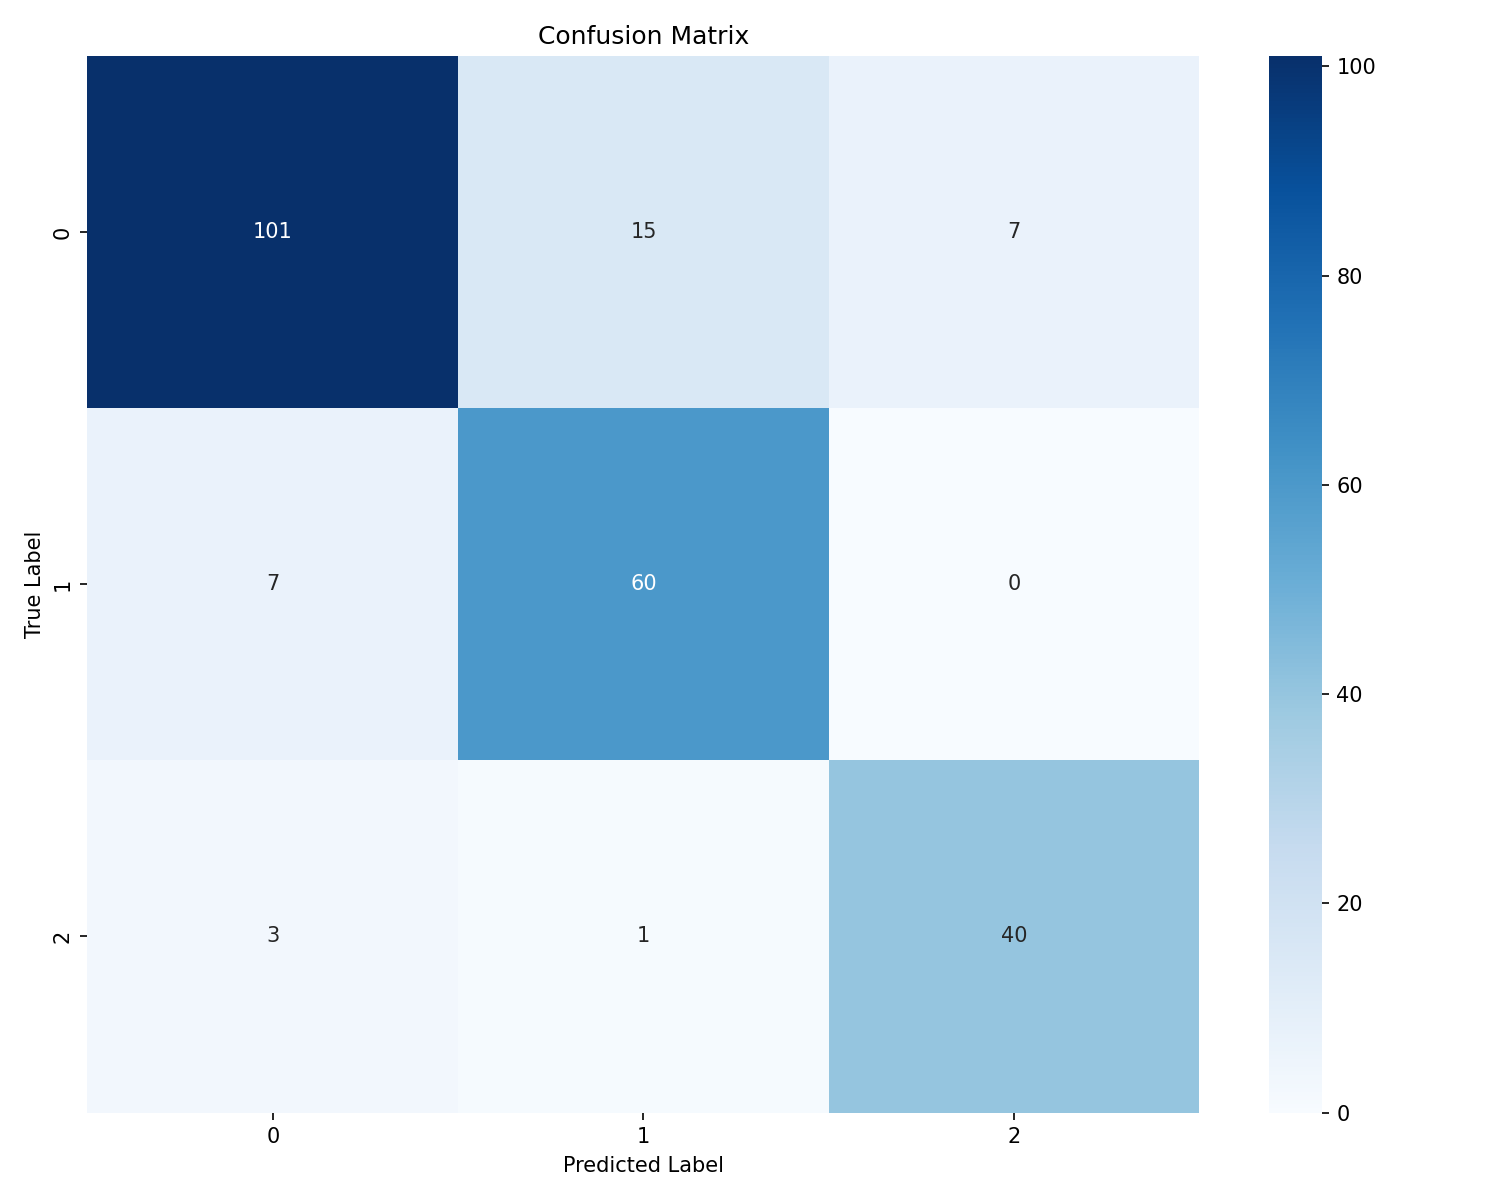
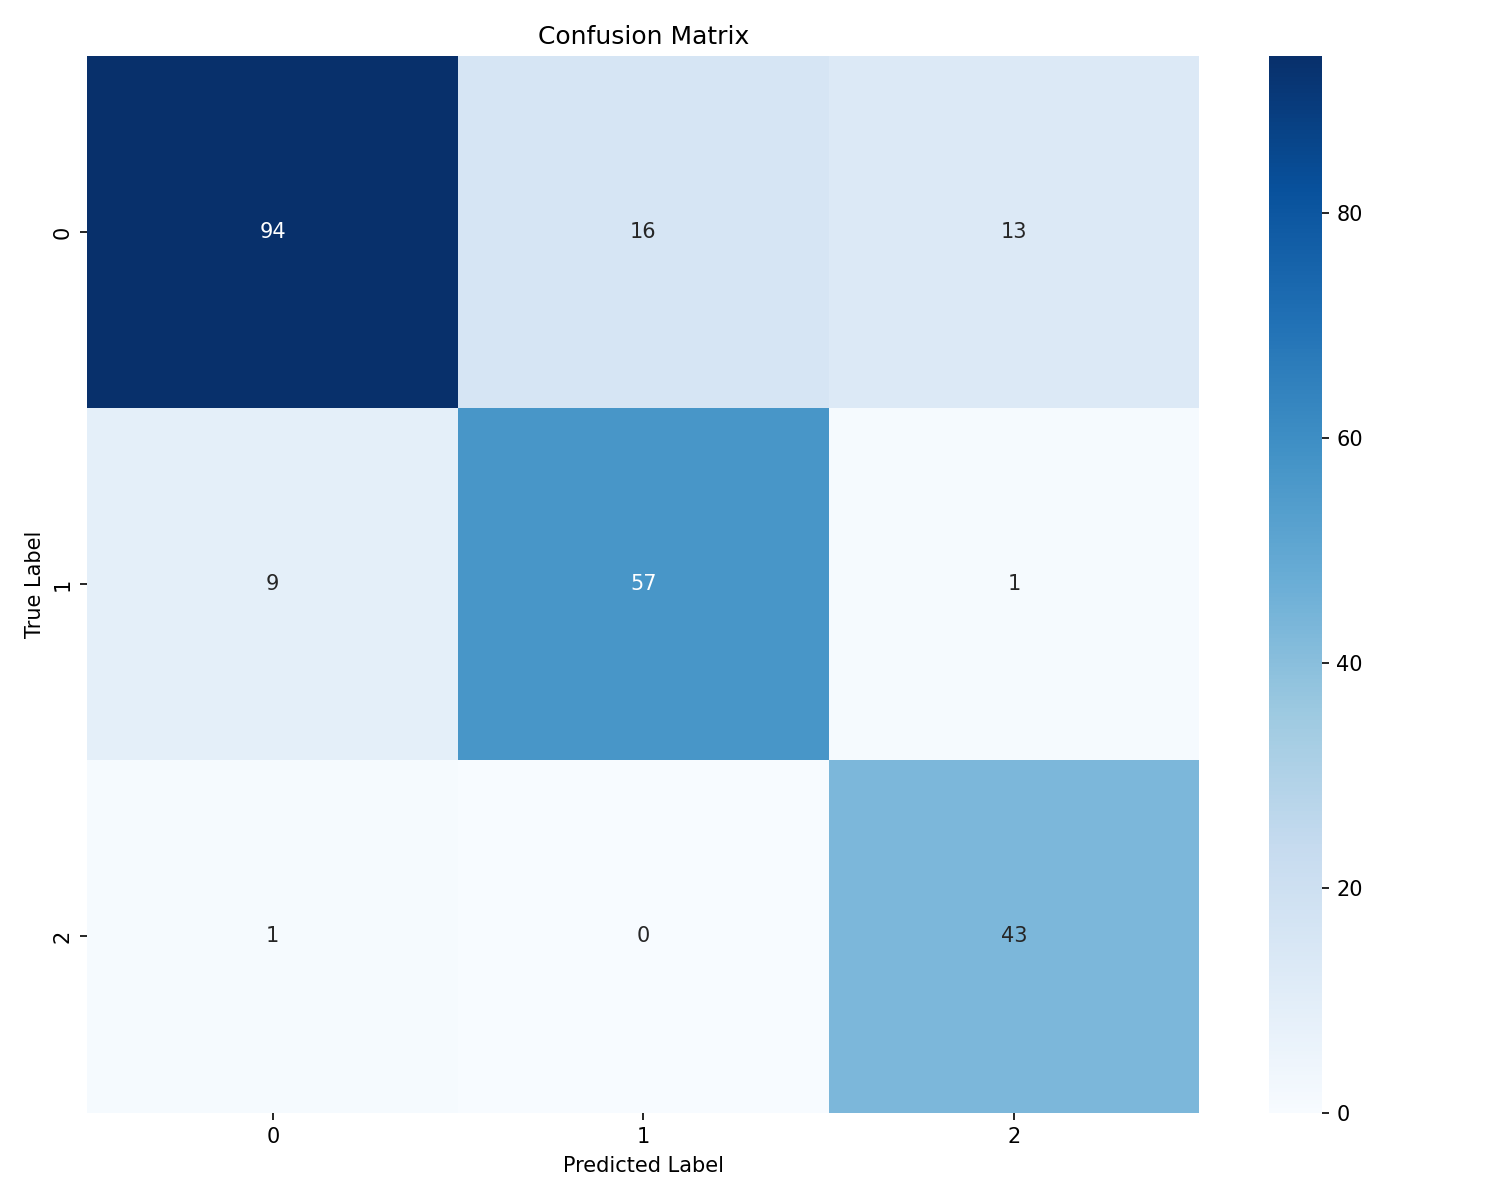
updated

diff --git a/artist_net.py b/artist_net.py
@@ -2415,7 +2415,7 @@ class ArtistNetSpectrogramV14(torch.nn.Module):
         print('Hf2', self.Hf2)
         self.S2 = conv2_channels * self.Wf2 * self.Hf2
         print('S2', self.S2)
-        self.n_hidden_neurons = self.S2 * 2
+        self.n_hidden_neurons = self.S2
         print('n_hidden_neurons', self.n_hidden_neurons)
 
         self.conv1 = torch.nn.Conv2d(1, conv1_channels,
@@ -2423,6 +2423,7 @@ class ArtistNetSpectrogramV14(torch.nn.Module):
                                      padding=(conv1_Wpadding, conv1_Hpadding), groups=1)
         self.bn1 = torch.nn.BatchNorm2d(conv1_channels)
 
+        self.activA = torch.nn.Tanh()
         self.convA1 = torch.nn.Conv2d(conv1_channels, conv1_channels, (convA_Wkernel, convA_Hkernel),
                                       stride=(convA_stride, convA_stride),
                                       padding=(convA_Wpadding, convA_Hpadding), groups=conv1_channels)
@@ -2438,21 +2439,9 @@ class ArtistNetSpectrogramV14(torch.nn.Module):
         self.convA4 = torch.nn.Conv2d(conv1_channels, conv1_channels, (convA_Wkernel, convA_Hkernel),
                                       stride=(convA_stride, convA_stride),
                                       padding=(convA_Wpadding, convA_Hpadding), groups=conv1_channels)
-        self.bnA4 = torch.nn.BatchNorm2d(conv1_channels)
-        self.convA5 = torch.nn.Conv2d(conv1_channels, conv1_channels, (convA_Wkernel, convA_Hkernel),
-                                      stride=(convA_stride, convA_stride),
-                                      padding=(convA_Wpadding, convA_Hpadding), groups=conv1_channels)
-        self.bnA5 = torch.nn.BatchNorm2d(conv1_channels)
-        self.convA6 = torch.nn.Conv2d(conv1_channels, conv1_channels, (convA_Wkernel, convA_Hkernel),
-                                      stride=(convA_stride, convA_stride),
-                                      padding=(convA_Wpadding, convA_Hpadding), groups=conv1_channels)
-        self.bnA6 = torch.nn.BatchNorm2d(conv1_channels)
-        self.convA7 = torch.nn.Conv2d(conv1_channels, conv1_channels, (convA_Wkernel, convA_Hkernel),
-                                      stride=(convA_stride, convA_stride),
-                                      padding=(convA_Wpadding, convA_Hpadding), groups=conv1_channels)
-        self.bnA7 = torch.nn.BatchNorm2d(conv1_channels)
 
         self.maxpool1 = torch.nn.MaxPool2d(kernel_size=(pool1_Wkernel, pool1_Hkernel))
+        self.bnA4 = torch.nn.BatchNorm2d(conv1_channels)
 
         self.conv2 = torch.nn.Conv2d(conv1_channels, conv2_channels,
                                      (conv2_Wkernel, conv2_Hkernel), stride=(conv2_stride, conv2_stride),
@@ -2488,10 +2477,8 @@ class ArtistNetSpectrogramV14(torch.nn.Module):
         _print(x.shape)
 
         for conv, bn in [(self.convA1, self.bnA1), (self.convA2, self.bnA2),
-                         (self.convA3, self.bnA3), (self.convA4, self.bnA4),
-                         (self.convA5, self.bnA5), (self.convA6, self.bnA6),
-                         (self.convA7, self.bnA7)]:
-            x1 = bn(conv(x))
+                         (self.convA3, self.bnA3), (self.convA4, self.bnA4)]:
+            x1 = conv(self.activA(bn(x) * ktan) / ktan)
             x = x + x1
 
         x = self.maxpool1(x)
@@ -2520,6 +2507,130 @@ class ArtistNetSpectrogramV14(torch.nn.Module):
         x = self.dp3(x)
         x = self.fc5(x)
         _print(x.shape)
+        return x
+
+    def inference(self, x):
+        x = self.forward(x)
+        x = self.sm(x)
+        return x
+
+
+class ArtistNetSpectrogramV15(torch.nn.Module):
+    def __init__(self, W=129, H=107, N=artist_count,
+                 conv1_channels=36,
+                 conv1_Wpadding=3, conv1_Hpadding=0,
+                 conv1_Wkernel=3, conv1_Hkernel=3,
+                 conv1_stride=3,
+                 pool1_kernel=5,
+                 convA_kernel=5,
+                 convA_padding=2, convA_stride=1,
+                 conv2_channels=36,
+                 conv2_Wpadding=1, conv2_Hpadding=2,
+                 conv2_Wkernel=3, conv2_Hkernel=3,
+                 conv2_stride=1,
+                 pool2_kernel=9):
+        super(ArtistNetSpectrogramV15, self).__init__()
+
+        # self.conv1_channels = conv1_channels
+        self.pool1_kernel = pool1_kernel
+        # self.conv2_channels = conv2_channels
+        self.pool2_kernel = pool2_kernel
+
+        self.W = W
+        self.H = H
+        self.N = N
+
+        self.Wc1 = (W - conv1_Wkernel + 2 * conv1_Wpadding) // conv1_stride + 1
+        print('Wc1', self.Wc1)
+        self.Hc1 = (H - conv1_Hkernel + 2 * conv1_Hpadding) // conv1_stride + 1
+        print('Hc1', self.Hc1)
+        # self.S1 = conv1_channels * self.Sc1 // pool1_kernel
+        # print('S1', self.S1)
+        self.Wf1 = self.Wc1 // pool1_kernel
+        print('Wf1', self.Wf1)
+        self.Hf1 = self.Hc1 // pool1_kernel
+        print('Hf1', self.Hf1)
+        self.Wc2 = (self.Wf1 - conv2_Wkernel + 2 * conv2_Wpadding) // conv2_stride + 1
+        print('Wc2', self.Wc2)
+        self.Hc2 = (self.Hf1 - conv2_Hkernel + 2 * conv2_Hpadding) // conv2_stride + 1
+        print('Hc2', self.Hc2)
+        self.Wf2 = self.Wc2 // pool2_kernel
+        print('Sf2', self.Wf2)
+        self.Hf2 = self.Hc2 // pool2_kernel
+        print('Hf2', self.Hf2)
+        self.S2 = conv2_channels * self.Wf2 * self.Hf2
+        print('S2', self.S2)
+        self.n_hidden_neurons = self.S2 * 2
+        # self.n_hidden_neurons = 240
+        # self.n_hidden_neurons = self.S1
+        print('n_hidden_neurons', self.n_hidden_neurons)
+
+        # self.fc0 = torch.nn.Linear(self.S, self.n_hidden_neurons)
+        # self.activ0 = torch.nn.Tanh()
+        self.conv1 = torch.nn.Conv2d(1, conv1_channels,
+                                     (conv1_Wkernel, conv1_Hkernel), stride=(conv1_stride, conv1_stride),
+                                     padding=(conv1_Wpadding, conv1_Hpadding), groups=1)
+        self.activA = torch.nn.LeakyReLU()
+        self.convA1 = torch.nn.Conv2d(conv1_channels, conv1_channels, (convA_kernel, convA_kernel),
+                                      stride=(convA_stride, convA_stride),
+                                      padding=convA_padding, groups=conv1_channels)
+        self.convA2 = torch.nn.Conv2d(conv1_channels, conv1_channels, (convA_kernel, convA_kernel),
+                                      stride=(convA_stride, convA_stride),
+                                      padding=convA_padding, groups=conv1_channels)
+        self.convA3 = torch.nn.Conv2d(conv1_channels, conv1_channels, (convA_kernel, convA_kernel),
+                                      stride=(convA_stride, convA_stride),
+                                      padding=convA_padding, groups=conv1_channels)
+        self.convA4 = torch.nn.Conv2d(conv1_channels, conv1_channels, (convA_kernel, convA_kernel),
+                                      stride=(convA_stride, convA_stride),
+                                      padding=convA_padding, groups=conv1_channels)
+        self.convA5 = torch.nn.Conv2d(conv1_channels, conv1_channels, (convA_kernel, convA_kernel),
+                                      stride=(convA_stride, convA_stride),
+                                      padding=convA_padding, groups=conv1_channels)
+        self.maxpool1 = torch.nn.MaxPool2d(kernel_size=(pool1_kernel, pool1_kernel))
+        self.conv2 = torch.nn.Conv2d(conv1_channels, conv2_channels,
+                                     (conv2_Wkernel, conv2_Hkernel), stride=(conv2_stride, conv2_stride),
+                                     padding=(conv2_Wpadding, conv2_Hpadding), groups=1)
+        self.maxpool2 = torch.nn.MaxPool2d(kernel_size=(pool2_kernel, pool2_kernel))
+        self.fc1 = torch.nn.Linear(self.S2, self.n_hidden_neurons)
+        self.activ1 = torch.nn.LeakyReLU()
+        self.fc3 = torch.nn.Linear(self.n_hidden_neurons, self.n_hidden_neurons)
+        self.activ3 = torch.nn.LeakyReLU()
+        self.fc4 = torch.nn.Linear(self.n_hidden_neurons, 2*N)
+        self.maxpool3 = torch.nn.MaxPool1d(kernel_size=2)
+        self.sm = torch.nn.Softmax(dim=1)
+
+    def forward(self, x):
+        _print('forward')
+        batch_size = list(x.shape)[0]
+        x = x.reshape(batch_size, 1, self.W, self.H)
+        x = self.conv1(x)
+        _print(x.shape)
+        for conv in [self.convA1, self.convA2, self.convA3, self.convA4, self.convA5]:
+            x1 = self.activA(conv(x))
+            x = x + x1
+        x = self.maxpool1(x)
+        _print(x.shape)
+        x = self.conv2(x)
+        _print(x.shape)
+        x = self.maxpool2(x)
+        _print(x.shape)
+        x = x.reshape(batch_size, -1)
+        # x = x.transpose(1, 2)
+        _print(x.shape)
+        x = self.fc1(x)
+        _print(x.shape)
+        x = self.activ1(x)
+        x = self.fc3(x)
+        _print(x.shape)
+        x = self.activ3(x)
+        x = self.fc4(x)
+        _print(x.shape)
+        x = self.maxpool3(x)
+        _print(x.shape)
+        # x = x.reshape(batch_size, -1)
+        # _print(x.shape)
+        # x = self.sm(x)
+        # _print(x.shape)
         return x
 
     def inference(self, x):

diff --git a/artist_classifier_with_spectrogram.py b/artist_classifier_with_spectrogram.py
@@ -8,14 +8,14 @@ import os
 
 import pandas as pd
 
-from sklearn.metrics import classification_report
+from sklearn.metrics import classification_report, f1_score
 
 from scipy import signal
 
-from artist_net import ArtistNetSpectrogramV14, sample_len
+from artist_net import ArtistNetSpectrogramV15, sample_len
 from debug import _print
 
-version_name = 'spectrogram_v14'
+version_name = 'spectrogram_v15'
 
 artist_count = 3
 
@@ -49,7 +49,7 @@ audio_data_raw_dir = f'{working_dir}/audio_data_raw'
 accuracy_log = f'{working_dir}/accuracy/{version_name}_{artist_count}_{samples_per_file}_{files_per_artist_total}_accuracy.csv'
 
 lr = 1e-3
-lr_gamma = 0.9
+lr_gamma = 0.99
 # the_batch_size = 100
 # the_batch_size = 200
 the_batch_size = 600
@@ -191,7 +191,7 @@ print(X_validate.cpu().min(), X_validate.cpu().max(), X_validate.cpu().mean())
 print('making tensors done')
 
 print('preparing neural networking')
-artist_net = ArtistNetSpectrogramV14()
+artist_net = ArtistNetSpectrogramV15()
 
 epoch = last_epoch
 
@@ -299,20 +299,27 @@ while epoch < end_epoch:
         # if epoch % 5 == 0:
         if True:
             order = np.random.permutation(len(X_validate))
-            accuracy = 0.0
+            # accuracy = 0.0
+            all_preds, all_labels = [], []
             for i in range(6):
                 validate_batch_indexes = order[900 * i:900 * (i + 1)]
                 x_validate_batch = X_validate[validate_batch_indexes].to(device)
                 y_validate_batch = y_validate[validate_batch_indexes].to(device)
                 # test_preds = artist_net.inference(x_validate_batch).to(device)
                 test_preds = artist_net.forward(x_validate_batch).to(device)
-                test_preds_numbers = test_preds.argmax(dim=1).cpu()
-                y_validate_numbers = y_validate_batch.argmax(dim=1).cpu()
-                accuracy += (test_preds_numbers == y_validate_numbers).float().mean().item()
-                _print((test_preds_numbers == 0).sum())
-                _print((test_preds_numbers == 1).sum())
-                _print((test_preds_numbers == 2).sum())
-            accuracy /= 6
+                # test_preds_numbers = test_preds.argmax(dim=1).cpu()
+                # y_validate_numbers = y_validate_batch.argmax(dim=1).cpu()
+                all_preds.append(test_preds.argmax(dim=1).cpu())
+                all_labels.append(y_validate_batch.argmax(dim=1).cpu())
+                # accuracy += (test_preds_numbers == y_validate_numbers).float().mean().item()
+                # _print((test_preds_numbers == 0).sum())
+                # _print((test_preds_numbers == 1).sum())
+                # _print((test_preds_numbers == 2).sum())
+            # accuracy /= 6
+            all_preds = torch.cat(all_preds).numpy()
+            all_labels = torch.cat(all_labels).numpy()
+            f1 = f1_score(all_labels, all_preds, average='macro')
+            accuracy = f1
             accuracy_accumulator_validate = accuracy_accumulator_validate * accum_coeff + accuracy * (1 - accum_coeff)
             print(epoch, accuracy_accumulator_validate, score_accumulator, loss_value_accumulator, scheduler.get_last_lr())
             epochs.append(epoch)

diff --git a/artist_folder_test_spectrogram.py b/artist_folder_test_spectrogram.py
@@ -13,10 +13,10 @@ from pydub import AudioSegment
 
 from scipy import signal
 
-from artist_net import ArtistNetSpectrogramV14
+from artist_net import ArtistNetSpectrogramV15
 from debug import _print
 
-version_name = 'spectrogram_v14'
+version_name = 'spectrogram_v15'
 
 working_dir = '.'
 
@@ -30,7 +30,7 @@ weights_dir = f'{working_dir}/weights/{version_name}_{suffix}_weights'
 FRAME_RATE = 8000
 CHUNK_SIZE = 24000
 
-last_epoch = 19
+last_epoch = 61
 
 S = 24000
 N = 3
@@ -61,7 +61,7 @@ torch.xpu.manual_seed(0)
 torch.backends.cudnn.deterministic = True
 
 print('preparing neural networking')
-artist_net = ArtistNetSpectrogramV14()
+artist_net = ArtistNetSpectrogramV15()
 
 if last_epoch >= 0:
     fn_weights = f'{weights_dir}/model_weights_epoch_{last_epoch}.pth'
